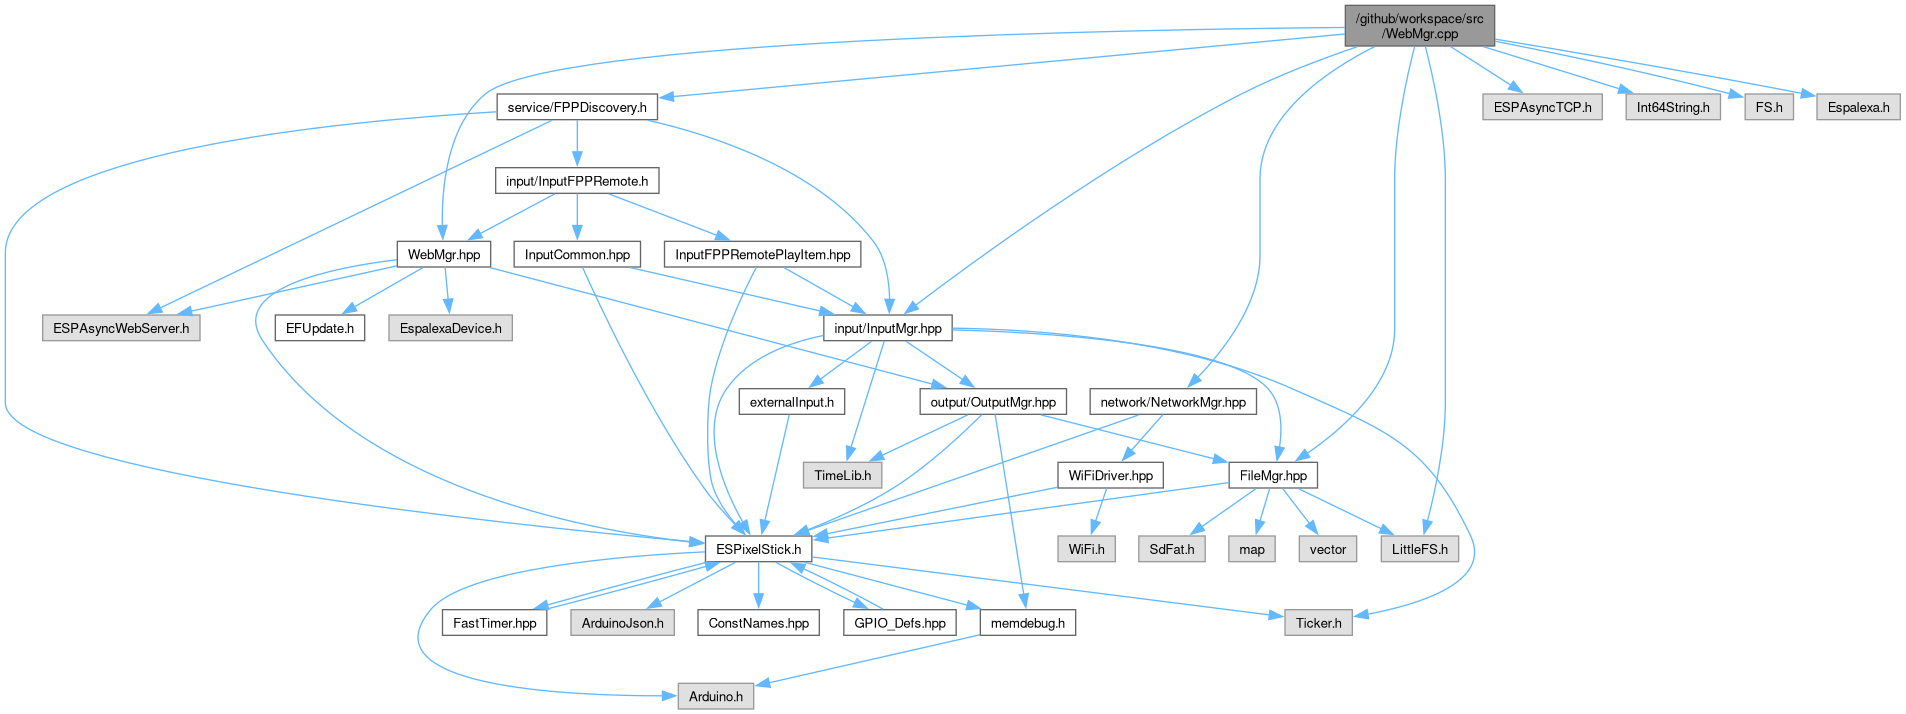
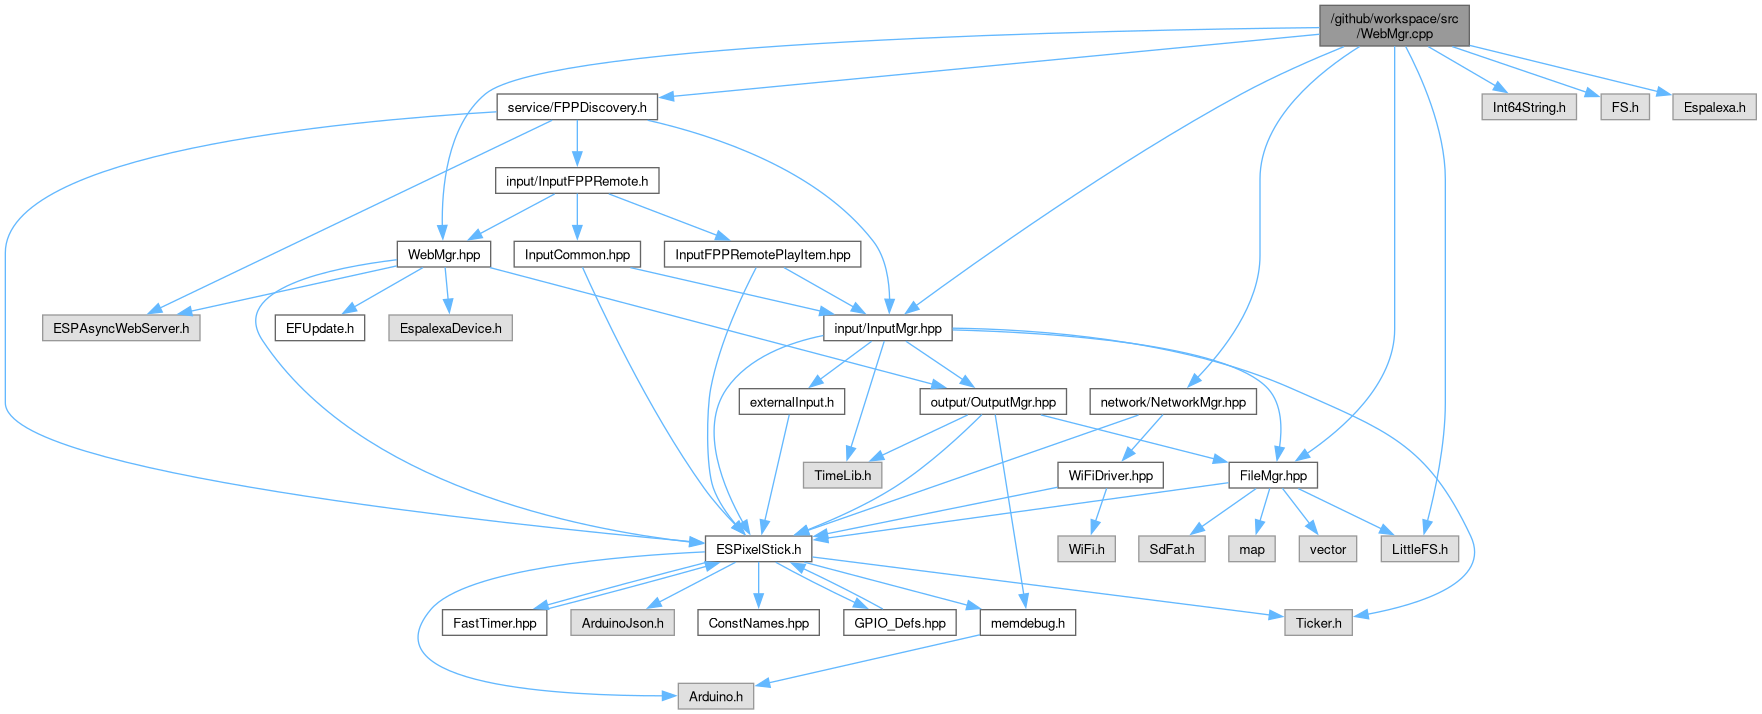
deploy: 21220d87e884089b5ec6669260bbba748f995054

diff --git a/doxy/_web_mgr_8hpp_source.html b/doxy/_web_mgr_8hpp_source.html
@@ -186,35 +186,35 @@ $(function(){initNavTree('_web_mgr_8hpp_source.html',''); initResizable(true); }
 <div class="ttc" id="a_e_f_update_8h_html"><div class="ttname"><a href="_e_f_update_8h.html">EFUpdate.h</a></div></div>
 <div class="ttc" id="a_e_s_pixel_stick_8h_html"><div class="ttname"><a href="_e_s_pixel_stick_8h.html">ESPixelStick.h</a></div></div>
 <div class="ttc" id="a_output_mgr_8hpp_html"><div class="ttname"><a href="_output_mgr_8hpp.html">OutputMgr.hpp</a></div></div>
-<div class="ttc" id="a_web_mgr_8hpp_html_aff0c9421511c7f4c149e388c0b5e14f2"><div class="ttname"><a href="_web_mgr_8hpp.html#aff0c9421511c7f4c149e388c0b5e14f2">WebMgr</a></div><div class="ttdeci">c_WebMgr WebMgr</div><div class="ttdef"><b>Definition</b> WebMgr.cpp:961</div></div>
+<div class="ttc" id="a_web_mgr_8hpp_html_aff0c9421511c7f4c149e388c0b5e14f2"><div class="ttname"><a href="_web_mgr_8hpp.html#aff0c9421511c7f4c149e388c0b5e14f2">WebMgr</a></div><div class="ttdeci">c_WebMgr WebMgr</div><div class="ttdef"><b>Definition</b> WebMgr.cpp:965</div></div>
 <div class="ttc" id="aclass_e_f_update_html"><div class="ttname"><a href="class_e_f_update.html">EFUpdate</a></div><div class="ttdef"><b>Definition</b> EFUpdate.h:27</div></div>
 <div class="ttc" id="aclassc___web_mgr_html"><div class="ttname"><a href="classc___web_mgr.html">c_WebMgr</a></div><div class="ttdef"><b>Definition</b> WebMgr.hpp:29</div></div>
 <div class="ttc" id="aclassc___web_mgr_html_a02d3fef6b783f26270959e68c8a3c787"><div class="ttname"><a href="classc___web_mgr.html#a02d3fef6b783f26270959e68c8a3c787">c_WebMgr::ValidateConfig</a></div><div class="ttdeci">void ValidateConfig(config_t *NewConfig)</div></div>
-<div class="ttc" id="aclassc___web_mgr_html_a078d26bad50a9051344ff07ad8e746d8"><div class="ttname"><a href="classc___web_mgr.html#a078d26bad50a9051344ff07ad8e746d8">c_WebMgr::Begin</a></div><div class="ttdeci">void Begin(config_t *NewConfig)</div><div class="ttdoc">set up the operating environment based on the current config (or defaults)</div><div class="ttdef"><b>Definition</b> WebMgr.cpp:102</div></div>
+<div class="ttc" id="aclassc___web_mgr_html_a078d26bad50a9051344ff07ad8e746d8"><div class="ttname"><a href="classc___web_mgr.html#a078d26bad50a9051344ff07ad8e746d8">c_WebMgr::Begin</a></div><div class="ttdeci">void Begin(config_t *NewConfig)</div><div class="ttdoc">set up the operating environment based on the current config (or defaults)</div><div class="ttdef"><b>Definition</b> WebMgr.cpp:104</div></div>
 <div class="ttc" id="aclassc___web_mgr_html_a0887eeee57f9d98b4ea16b75133423b0"><div class="ttname"><a href="classc___web_mgr.html#a0887eeee57f9d98b4ea16b75133423b0">c_WebMgr::GetInputOptions</a></div><div class="ttdeci">void GetInputOptions()</div></div>
-<div class="ttc" id="aclassc___web_mgr_html_a0d5feca56e0e864aeff5994857d67663"><div class="ttname"><a href="classc___web_mgr.html#a0d5feca56e0e864aeff5994857d67663">c_WebMgr::ProcessSetTimeRequest</a></div><div class="ttdeci">void ProcessSetTimeRequest(time_t DateTime)</div><div class="ttdef"><b>Definition</b> WebMgr.cpp:806</div></div>
+<div class="ttc" id="aclassc___web_mgr_html_a0d5feca56e0e864aeff5994857d67663"><div class="ttname"><a href="classc___web_mgr.html#a0d5feca56e0e864aeff5994857d67663">c_WebMgr::ProcessSetTimeRequest</a></div><div class="ttdeci">void ProcessSetTimeRequest(time_t DateTime)</div><div class="ttdef"><b>Definition</b> WebMgr.cpp:810</div></div>
 <div class="ttc" id="aclassc___web_mgr_html_a18e094c198c1389bb2ee27496e961ff6"><div class="ttname"><a href="classc___web_mgr.html#a18e094c198c1389bb2ee27496e961ff6">c_WebMgr::processCmdGet</a></div><div class="ttdeci">void processCmdGet(JsonObject &amp;jsonCmd)</div></div>
 <div class="ttc" id="aclassc___web_mgr_html_a29f8f2bc3fffe8b65384a145ab654b33"><div class="ttname"><a href="classc___web_mgr.html#a29f8f2bc3fffe8b65384a145ab654b33">c_WebMgr::pAlexaDevice</a></div><div class="ttdeci">EspalexaDevice * pAlexaDevice</div><div class="ttdef"><b>Definition</b> WebMgr.hpp:50</div></div>
-<div class="ttc" id="aclassc___web_mgr_html_a2c6189891b0496dae7d89ea7cdb24aee"><div class="ttname"><a href="classc___web_mgr.html#a2c6189891b0496dae7d89ea7cdb24aee">c_WebMgr::init</a></div><div class="ttdeci">void init()</div><div class="ttdef"><b>Definition</b> WebMgr.cpp:134</div></div>
-<div class="ttc" id="aclassc___web_mgr_html_a35bebb1c0f399725706a4167bbaa9941"><div class="ttname"><a href="classc___web_mgr.html#a35bebb1c0f399725706a4167bbaa9941">c_WebMgr::Process</a></div><div class="ttdeci">void Process()</div><div class="ttdef"><b>Definition</b> WebMgr.cpp:948</div></div>
+<div class="ttc" id="aclassc___web_mgr_html_a2c6189891b0496dae7d89ea7cdb24aee"><div class="ttname"><a href="classc___web_mgr.html#a2c6189891b0496dae7d89ea7cdb24aee">c_WebMgr::init</a></div><div class="ttdeci">void init()</div><div class="ttdef"><b>Definition</b> WebMgr.cpp:136</div></div>
+<div class="ttc" id="aclassc___web_mgr_html_a35bebb1c0f399725706a4167bbaa9941"><div class="ttname"><a href="classc___web_mgr.html#a35bebb1c0f399725706a4167bbaa9941">c_WebMgr::Process</a></div><div class="ttdeci">void Process()</div><div class="ttdef"><b>Definition</b> WebMgr.cpp:952</div></div>
 <div class="ttc" id="aclassc___web_mgr_html_a3782b2eb5d97f8a003422e69bb8d19d9"><div class="ttname"><a href="classc___web_mgr.html#a3782b2eb5d97f8a003422e69bb8d19d9">c_WebMgr::pAlexaCallback</a></div><div class="ttdeci">DeviceCallbackFunction pAlexaCallback</div><div class="ttdef"><b>Definition</b> WebMgr.hpp:49</div></div>
-<div class="ttc" id="aclassc___web_mgr_html_a461cebce4ff284be5a268e7d36fffd05"><div class="ttname"><a href="classc___web_mgr.html#a461cebce4ff284be5a268e7d36fffd05">c_WebMgr::RequestReadConfigFile</a></div><div class="ttdeci">bool RequestReadConfigFile(String &amp;fileName)</div><div class="ttdef"><b>Definition</b> WebMgr.cpp:819</div></div>
-<div class="ttc" id="aclassc___web_mgr_html_a529c105b3389d78208078fd9c6847367"><div class="ttname"><a href="classc___web_mgr.html#a529c105b3389d78208078fd9c6847367">c_WebMgr::FirmwareUpload</a></div><div class="ttdeci">void FirmwareUpload(AsyncWebServerRequest *request, String filename, uint32_t index, uint8_t *data, uint32_t len, bool final)</div><div class="ttdef"><b>Definition</b> WebMgr.cpp:852</div></div>
-<div class="ttc" id="aclassc___web_mgr_html_a560142873d37202c4ef7fc5c27d4c76b"><div class="ttname"><a href="classc___web_mgr.html#a560142873d37202c4ef7fc5c27d4c76b">c_WebMgr::c_WebMgr</a></div><div class="ttdeci">c_WebMgr()</div><div class="ttdoc">&lt; Start up the driver and put it into a safe mode</div><div class="ttdef"><b>Definition</b> WebMgr.cpp:84</div></div>
+<div class="ttc" id="aclassc___web_mgr_html_a461cebce4ff284be5a268e7d36fffd05"><div class="ttname"><a href="classc___web_mgr.html#a461cebce4ff284be5a268e7d36fffd05">c_WebMgr::RequestReadConfigFile</a></div><div class="ttdeci">bool RequestReadConfigFile(String &amp;fileName)</div><div class="ttdef"><b>Definition</b> WebMgr.cpp:823</div></div>
+<div class="ttc" id="aclassc___web_mgr_html_a529c105b3389d78208078fd9c6847367"><div class="ttname"><a href="classc___web_mgr.html#a529c105b3389d78208078fd9c6847367">c_WebMgr::FirmwareUpload</a></div><div class="ttdeci">void FirmwareUpload(AsyncWebServerRequest *request, String filename, uint32_t index, uint8_t *data, uint32_t len, bool final)</div><div class="ttdef"><b>Definition</b> WebMgr.cpp:856</div></div>
+<div class="ttc" id="aclassc___web_mgr_html_a560142873d37202c4ef7fc5c27d4c76b"><div class="ttname"><a href="classc___web_mgr.html#a560142873d37202c4ef7fc5c27d4c76b">c_WebMgr::c_WebMgr</a></div><div class="ttdeci">c_WebMgr()</div><div class="ttdoc">&lt; Start up the driver and put it into a safe mode</div><div class="ttdef"><b>Definition</b> WebMgr.cpp:86</div></div>
 <div class="ttc" id="aclassc___web_mgr_html_a680165d31d7cd22afde779f25e6a4067"><div class="ttname"><a href="classc___web_mgr.html#a680165d31d7cd22afde779f25e6a4067">c_WebMgr::IsAlexaCallbackValid</a></div><div class="ttdeci">bool IsAlexaCallbackValid()</div><div class="ttdef"><b>Definition</b> WebMgr.hpp:40</div></div>
-<div class="ttc" id="aclassc___web_mgr_html_a6dc6bd3709c346249b066f2d64ec39c4"><div class="ttname"><a href="classc___web_mgr.html#a6dc6bd3709c346249b066f2d64ec39c4">c_WebMgr::onAlexaMessage</a></div><div class="ttdeci">void onAlexaMessage(EspalexaDevice *pDevice)</div><div class="ttdef"><b>Definition</b> WebMgr.cpp:668</div></div>
+<div class="ttc" id="aclassc___web_mgr_html_a6dc6bd3709c346249b066f2d64ec39c4"><div class="ttname"><a href="classc___web_mgr.html#a6dc6bd3709c346249b066f2d64ec39c4">c_WebMgr::onAlexaMessage</a></div><div class="ttdeci">void onAlexaMessage(EspalexaDevice *pDevice)</div><div class="ttdef"><b>Definition</b> WebMgr.cpp:672</div></div>
 <div class="ttc" id="aclassc___web_mgr_html_a79793e69a4d52e112a766f0c90768f72"><div class="ttname"><a href="classc___web_mgr.html#a79793e69a4d52e112a766f0c90768f72">c_WebMgr::GetDriverName</a></div><div class="ttdeci">void GetDriverName(String &amp;Name)</div><div class="ttdef"><b>Definition</b> WebMgr.hpp:43</div></div>
 <div class="ttc" id="aclassc___web_mgr_html_a8a4687493844ea7b8164323875577a8d"><div class="ttname"><a href="classc___web_mgr.html#a8a4687493844ea7b8164323875577a8d">c_WebMgr::processCmdDelete</a></div><div class="ttdeci">void processCmdDelete(JsonObject &amp;jsonCmd)</div></div>
-<div class="ttc" id="aclassc___web_mgr_html_a8cabfe1c5b1f05b02d4112cb6b85978d"><div class="ttname"><a href="classc___web_mgr.html#a8cabfe1c5b1f05b02d4112cb6b85978d">c_WebMgr::CreateAdminInfoFile</a></div><div class="ttdeci">void CreateAdminInfoFile()</div><div class="ttdef"><b>Definition</b> WebMgr.cpp:708</div></div>
+<div class="ttc" id="aclassc___web_mgr_html_a8cabfe1c5b1f05b02d4112cb6b85978d"><div class="ttname"><a href="classc___web_mgr.html#a8cabfe1c5b1f05b02d4112cb6b85978d">c_WebMgr::CreateAdminInfoFile</a></div><div class="ttdeci">void CreateAdminInfoFile()</div><div class="ttdef"><b>Definition</b> WebMgr.cpp:712</div></div>
 <div class="ttc" id="aclassc___web_mgr_html_a8f1df03cc184b3c4ee9f5eae87940f7b"><div class="ttname"><a href="classc___web_mgr.html#a8f1df03cc184b3c4ee9f5eae87940f7b">c_WebMgr::GetConfiguration</a></div><div class="ttdeci">void GetConfiguration()</div></div>
 <div class="ttc" id="aclassc___web_mgr_html_aa2dabdf8f6f1eff455fdc7e2d729a487"><div class="ttname"><a href="classc___web_mgr.html#aa2dabdf8f6f1eff455fdc7e2d729a487">c_WebMgr::processCmdSet</a></div><div class="ttdeci">bool processCmdSet(JsonObject &amp;jsonCmd)</div></div>
-<div class="ttc" id="aclassc___web_mgr_html_aa3c98d4d503811ca4071b3e3ba84fa0f"><div class="ttname"><a href="classc___web_mgr.html#aa3c98d4d503811ca4071b3e3ba84fa0f">c_WebMgr::NetworkStateChanged</a></div><div class="ttdeci">void NetworkStateChanged(bool NewNetworkState)</div><div class="ttdef"><b>Definition</b> WebMgr.cpp:120</div></div>
+<div class="ttc" id="aclassc___web_mgr_html_aa3c98d4d503811ca4071b3e3ba84fa0f"><div class="ttname"><a href="classc___web_mgr.html#aa3c98d4d503811ca4071b3e3ba84fa0f">c_WebMgr::NetworkStateChanged</a></div><div class="ttdeci">void NetworkStateChanged(bool NewNetworkState)</div><div class="ttdef"><b>Definition</b> WebMgr.cpp:122</div></div>
 <div class="ttc" id="aclassc___web_mgr_html_aa7afdb1150af1acd1dfdf7cfefffec97"><div class="ttname"><a href="classc___web_mgr.html#aa7afdb1150af1acd1dfdf7cfefffec97">c_WebMgr::GetDeviceOptions</a></div><div class="ttdeci">void GetDeviceOptions()</div></div>
-<div class="ttc" id="aclassc___web_mgr_html_aaad811dbabf3626c6ddb95f13f301f7f"><div class="ttname"><a href="classc___web_mgr.html#aaad811dbabf3626c6ddb95f13f301f7f">c_WebMgr::RegisterAlexaCallback</a></div><div class="ttdeci">void RegisterAlexaCallback(DeviceCallbackFunction cb)</div><div class="ttdef"><b>Definition</b> WebMgr.cpp:657</div></div>
+<div class="ttc" id="aclassc___web_mgr_html_aaad811dbabf3626c6ddb95f13f301f7f"><div class="ttname"><a href="classc___web_mgr.html#aaad811dbabf3626c6ddb95f13f301f7f">c_WebMgr::RegisterAlexaCallback</a></div><div class="ttdeci">void RegisterAlexaCallback(DeviceCallbackFunction cb)</div><div class="ttdef"><b>Definition</b> WebMgr.cpp:661</div></div>
 <div class="ttc" id="aclassc___web_mgr_html_ab4b98e04e2eb85420450597c7c692b2c"><div class="ttname"><a href="classc___web_mgr.html#ab4b98e04e2eb85420450597c7c692b2c">c_WebMgr::WebJsonDocument</a></div><div class="ttdeci">JsonDocument WebJsonDocument</div><div class="ttdef"><b>Definition</b> WebMgr.hpp:77</div></div>
 <div class="ttc" id="aclassc___web_mgr_html_abbef88f739edfe4f685eba944885bc12"><div class="ttname"><a href="classc___web_mgr.html#abbef88f739edfe4f685eba944885bc12">c_WebMgr::processCmdOpt</a></div><div class="ttdeci">void processCmdOpt(JsonObject &amp;jsonCmd)</div></div>
-<div class="ttc" id="aclassc___web_mgr_html_ac426ec3c9a62e516946e4cc20f5243d2"><div class="ttname"><a href="classc___web_mgr.html#ac426ec3c9a62e516946e4cc20f5243d2">c_WebMgr::~c_WebMgr</a></div><div class="ttdeci">virtual ~c_WebMgr()</div><div class="ttdoc">&lt; deallocate any resources and put the output channels into a safe state</div><div class="ttdef"><b>Definition</b> WebMgr.cpp:92</div></div>
-<div class="ttc" id="aclassc___web_mgr_html_acffc5a44584e814738cfa0034a899f7e"><div class="ttname"><a href="classc___web_mgr.html#acffc5a44584e814738cfa0034a899f7e">c_WebMgr::ProcessXJRequest</a></div><div class="ttdeci">void ProcessXJRequest(AsyncWebServerRequest *client)</div><div class="ttdef"><b>Definition</b> WebMgr.cpp:741</div></div>
+<div class="ttc" id="aclassc___web_mgr_html_ac426ec3c9a62e516946e4cc20f5243d2"><div class="ttname"><a href="classc___web_mgr.html#ac426ec3c9a62e516946e4cc20f5243d2">c_WebMgr::~c_WebMgr</a></div><div class="ttdeci">virtual ~c_WebMgr()</div><div class="ttdoc">&lt; deallocate any resources and put the output channels into a safe state</div><div class="ttdef"><b>Definition</b> WebMgr.cpp:94</div></div>
+<div class="ttc" id="aclassc___web_mgr_html_acffc5a44584e814738cfa0034a899f7e"><div class="ttname"><a href="classc___web_mgr.html#acffc5a44584e814738cfa0034a899f7e">c_WebMgr::ProcessXJRequest</a></div><div class="ttdeci">void ProcessXJRequest(AsyncWebServerRequest *client)</div><div class="ttdef"><b>Definition</b> WebMgr.cpp:745</div></div>
 <div class="ttc" id="aclassc___web_mgr_html_ae5441ff672ebcb2c39eb6f5b5b7f8ac8"><div class="ttname"><a href="classc___web_mgr.html#ae5441ff672ebcb2c39eb6f5b5b7f8ac8">c_WebMgr::GetOutputOptions</a></div><div class="ttdeci">void GetOutputOptions()</div></div>
 <div class="ttc" id="aclassc___web_mgr_html_ae959e70739b7d2baed8f527572458855"><div class="ttname"><a href="classc___web_mgr.html#ae959e70739b7d2baed8f527572458855">c_WebMgr::GetOptions</a></div><div class="ttdeci">void GetOptions()</div></div>
 <div class="ttc" id="aclassc___web_mgr_html_aeb7f891688b50a8ac2ac6865aec01006"><div class="ttname"><a href="classc___web_mgr.html#aeb7f891688b50a8ac2ac6865aec01006">c_WebMgr::efupdate</a></div><div class="ttdeci">EFUpdate efupdate</div><div class="ttdef"><b>Definition</b> WebMgr.hpp:48</div></div>

diff --git a/doxy/_web_mgr_8cpp.html b/doxy/_web_mgr_8cpp.html
@@ -109,7 +109,6 @@ $(function(){initNavTree('_web_mgr_8cpp.html',''); initResizable(true); });
 <code>#include &quot;<a class="el" href="_input_mgr_8hpp_source.html">input/InputMgr.hpp</a>&quot;</code><br />
 <code>#include &quot;<a class="el" href="_f_p_p_discovery_8h_source.html">service/FPPDiscovery.h</a>&quot;</code><br />
 <code>#include &quot;<a class="el" href="_network_mgr_8hpp_source.html">network/NetworkMgr.hpp</a>&quot;</code><br />
-<code>#include &lt;ESPAsyncTCP.h&gt;</code><br />
 <code>#include &lt;Int64String.h&gt;</code><br />
 <code>#include &lt;FS.h&gt;</code><br />
 <code>#include &lt;LittleFS.h&gt;</code><br />
@@ -119,27 +118,25 @@ Include dependency graph for WebMgr.cpp:</div>
 <div class="dyncontent">
 <div class="center"><img src="_web_mgr_8cpp__incl.png" border="0" usemap="#a_2github_2workspace_2src_2_web_mgr_8cpp" alt=""/></div>
 <map name="a_2github_2workspace_2src_2_web_mgr_8cpp" id="a_2github_2workspace_2src_2_web_mgr_8cpp">
-<area shape="rect" title=" " alt="" coords="1345,5,1495,46"/>
+<area shape="rect" title=" " alt="" coords="1320,5,1469,46"/>
 <area shape="rect" href="_web_mgr_8hpp.html" title=" " alt="" coords="397,241,491,267"/>
-<area shape="poly" title=" " alt="" coords="1345,30,1131,34,861,44,731,52,618,64,533,78,504,87,487,96,464,124,452,159,446,195,445,226,440,226,441,194,446,158,460,122,484,92,502,82,532,73,617,58,730,47,861,38,1131,28,1345,25"/>
+<area shape="poly" title=" " alt="" coords="1320,30,1111,34,849,44,723,53,614,64,532,79,504,87,487,96,465,124,452,159,446,195,445,226,440,226,441,194,446,158,460,122,484,92,502,82,530,73,613,59,723,48,849,39,1111,29,1320,25"/>
 <area shape="rect" href="_file_mgr_8hpp.html" title=" " alt="" coords="1229,462,1318,488"/>
-<area shape="poly" title=" " alt="" coords="1417,47,1404,106,1397,179,1397,329,1395,350,1388,369,1366,404,1337,434,1308,456,1305,451,1334,429,1362,401,1384,367,1390,349,1392,329,1392,179,1399,105,1412,46"/>
+<area shape="poly" title=" " alt="" coords="1397,46,1397,179,1397,329,1395,350,1388,369,1366,404,1337,434,1308,456,1305,451,1334,429,1362,401,1384,367,1390,349,1392,329,1392,179,1392,46"/>
 <area shape="rect" title=" " alt="" coords="1381,536,1459,562"/>
-<area shape="poly" title=" " alt="" coords="1428,46,1441,105,1448,179,1448,403,1442,467,1430,522,1425,520,1437,466,1443,403,1443,179,1436,106,1423,47"/>
+<area shape="poly" title=" " alt="" coords="1408,45,1434,104,1444,141,1448,179,1448,403,1442,467,1430,522,1425,520,1437,466,1443,403,1443,179,1439,142,1429,106,1403,48"/>
 <area shape="rect" href="_input_mgr_8hpp.html" title=" " alt="" coords="824,315,952,341"/>
-<area shape="poly" title=" " alt="" coords="1358,49,1301,70,1243,96,1146,151,1053,210,917,308,914,303,1050,206,1143,146,1240,92,1299,65,1356,44"/>
+<area shape="poly" title=" " alt="" coords="1345,49,1243,96,1147,152,1055,212,918,308,915,303,1052,207,1144,148,1240,92,1343,44"/>
 <area shape="rect" href="_f_p_p_discovery_8h.html" title=" " alt="" coords="497,94,658,120"/>
-<area shape="poly" title=" " alt="" coords="1345,37,673,99,673,94,1345,31"/>
+<area shape="poly" title=" " alt="" coords="1320,37,673,99,673,94,1319,32"/>
 <area shape="rect" href="_network_mgr_8hpp.html" title=" " alt="" coords="1090,389,1256,414"/>
-<area shape="poly" title=" " alt="" coords="1376,49,1338,71,1301,100,1274,136,1266,157,1263,179,1263,256,1256,292,1241,326,1220,356,1200,379,1196,376,1216,352,1236,323,1251,291,1257,255,1257,179,1260,156,1269,134,1298,96,1335,66,1373,44"/>
-<area shape="rect" title=" " alt="" coords="1483,94,1602,120"/>
-<area shape="poly" title=" " alt="" coords="1452,44,1513,83,1510,88,1449,49"/>
-<area shape="rect" title=" " alt="" coords="1626,94,1720,120"/>
-<area shape="poly" title=" " alt="" coords="1484,44,1620,86,1619,91,1482,49"/>
-<area shape="rect" title=" " alt="" coords="1745,94,1794,120"/>
-<area shape="poly" title=" " alt="" coords="1495,39,1602,61,1730,91,1729,96,1601,66,1494,44"/>
-<area shape="rect" title=" " alt="" coords="1817,94,1900,120"/>
-<area shape="poly" title=" " alt="" coords="1496,37,1802,91,1801,96,1495,42"/>
+<area shape="poly" title=" " alt="" coords="1361,49,1329,71,1297,101,1272,138,1265,158,1263,179,1263,256,1256,292,1241,326,1220,356,1200,379,1196,376,1216,352,1236,323,1251,291,1257,255,1257,179,1260,157,1268,135,1293,98,1326,67,1358,44"/>
+<area shape="rect" title=" " alt="" coords="1482,94,1576,120"/>
+<area shape="poly" title=" " alt="" coords="1430,44,1497,83,1494,88,1427,49"/>
+<area shape="rect" title=" " alt="" coords="1601,94,1650,120"/>
+<area shape="poly" title=" " alt="" coords="1453,44,1587,90,1585,95,1451,49"/>
+<area shape="rect" title=" " alt="" coords="1673,94,1756,120"/>
+<area shape="poly" title=" " alt="" coords="1470,43,1658,89,1657,94,1469,48"/>
 <area shape="rect" href="_e_s_pixel_stick_8h.html" title=" " alt="" coords="706,536,812,562"/>
 <area shape="poly" title=" " alt="" coords="397,262,344,271,294,286,274,296,262,308,258,322,265,339,306,388,356,429,412,462,472,488,532,508,590,523,691,539,690,545,589,528,530,513,470,493,410,467,353,434,302,392,260,342,253,323,258,306,271,292,291,281,343,266,396,257"/>
 <area shape="rect" href="_e_f_update_8h.html" title=" " alt="" coords="275,315,365,341"/>

diff --git a/doxy/_e_s_pixel_stick_8h_source.html b/doxy/_e_s_pixel_stick_8h_source.html
@@ -330,7 +330,7 @@ $(function(){initNavTree('_e_s_pixel_stick_8h_source.html',''); initResizable(tr
 <div class="ttc" id="a_e_s_pixel_stick_8h_html_a23e7afe154bda4f1d2e44818ed09843e"><div class="ttname"><a href="_e_s_pixel_stick_8h.html#a23e7afe154bda4f1d2e44818ed09843e">deserializeCoreHandler</a></div><div class="ttdeci">void deserializeCoreHandler(JsonDocument &amp;jsonDoc)</div><div class="ttdef"><b>Definition</b> main.cpp:404</div></div>
 <div class="ttc" id="a_e_s_pixel_stick_8h_html_a25ce4b69d296fc9a3324b494542c2420"><div class="ttname"><a href="_e_s_pixel_stick_8h.html#a25ce4b69d296fc9a3324b494542c2420">config</a></div><div class="ttdeci">config_t config</div><div class="ttdef"><b>Definition</b> main.cpp:98</div></div>
 <div class="ttc" id="a_e_s_pixel_stick_8h_html_a2d941111e6837719d2ab46924313aca1"><div class="ttname"><a href="_e_s_pixel_stick_8h.html#a2d941111e6837719d2ab46924313aca1">DelayReboot</a></div><div class="ttdeci">void DelayReboot(uint32_t MinDelay)</div><div class="ttdef"><b>Definition</b> main.cpp:517</div></div>
-<div class="ttc" id="a_e_s_pixel_stick_8h_html_a47bc5f5aa91e940e6cfc297466285595"><div class="ttname"><a href="_e_s_pixel_stick_8h.html#a47bc5f5aa91e940e6cfc297466285595">PrettyPrint</a></div><div class="ttdeci">void PrettyPrint(JsonObject &amp;jsonStuff, String Name)</div><div class="ttdef"><b>Definition</b> WebMgr.cpp:72</div></div>
+<div class="ttc" id="a_e_s_pixel_stick_8h_html_a47bc5f5aa91e940e6cfc297466285595"><div class="ttname"><a href="_e_s_pixel_stick_8h.html#a47bc5f5aa91e940e6cfc297466285595">PrettyPrint</a></div><div class="ttdeci">void PrettyPrint(JsonObject &amp;jsonStuff, String Name)</div><div class="ttdef"><b>Definition</b> WebMgr.cpp:74</div></div>
 <div class="ttc" id="a_e_s_pixel_stick_8h_html_a64caf298db9b3dcc081633371db4a441"><div class="ttname"><a href="_e_s_pixel_stick_8h.html#a64caf298db9b3dcc081633371db4a441">serializeCore</a></div><div class="ttdeci">String serializeCore(bool pretty=false)</div><div class="ttdef"><b>Definition</b> main.cpp:488</div></div>
 <div class="ttc" id="a_e_s_pixel_stick_8h_html_a70e2f5df671c5b18e60a1bbcf2c9586f"><div class="ttname"><a href="_e_s_pixel_stick_8h.html#a70e2f5df671c5b18e60a1bbcf2c9586f">DiscardedRxData</a></div><div class="ttdeci">uint32_t DiscardedRxData</div><div class="ttdef"><b>Definition</b> main.cpp:107</div></div>
 <div class="ttc" id="a_e_s_pixel_stick_8h_html_a71cd754e8f1472f27fc5b805dfcb4251"><div class="ttname"><a href="_e_s_pixel_stick_8h.html#a71cd754e8f1472f27fc5b805dfcb4251">ResetWiFi</a></div><div class="ttdeci">bool ResetWiFi</div><div class="ttdef"><b>Definition</b> main.cpp:102</div></div>
